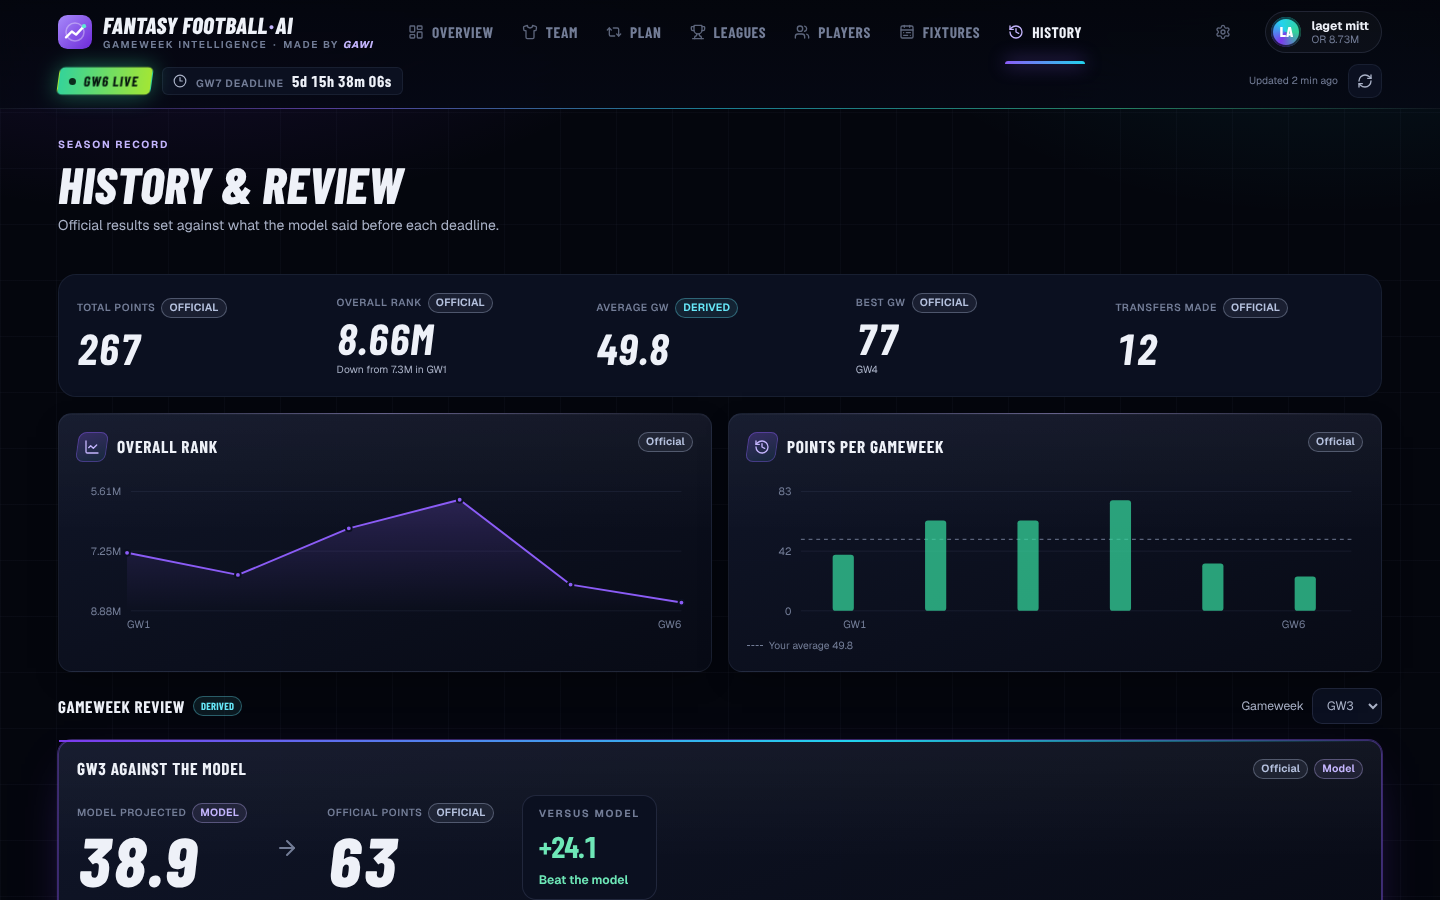
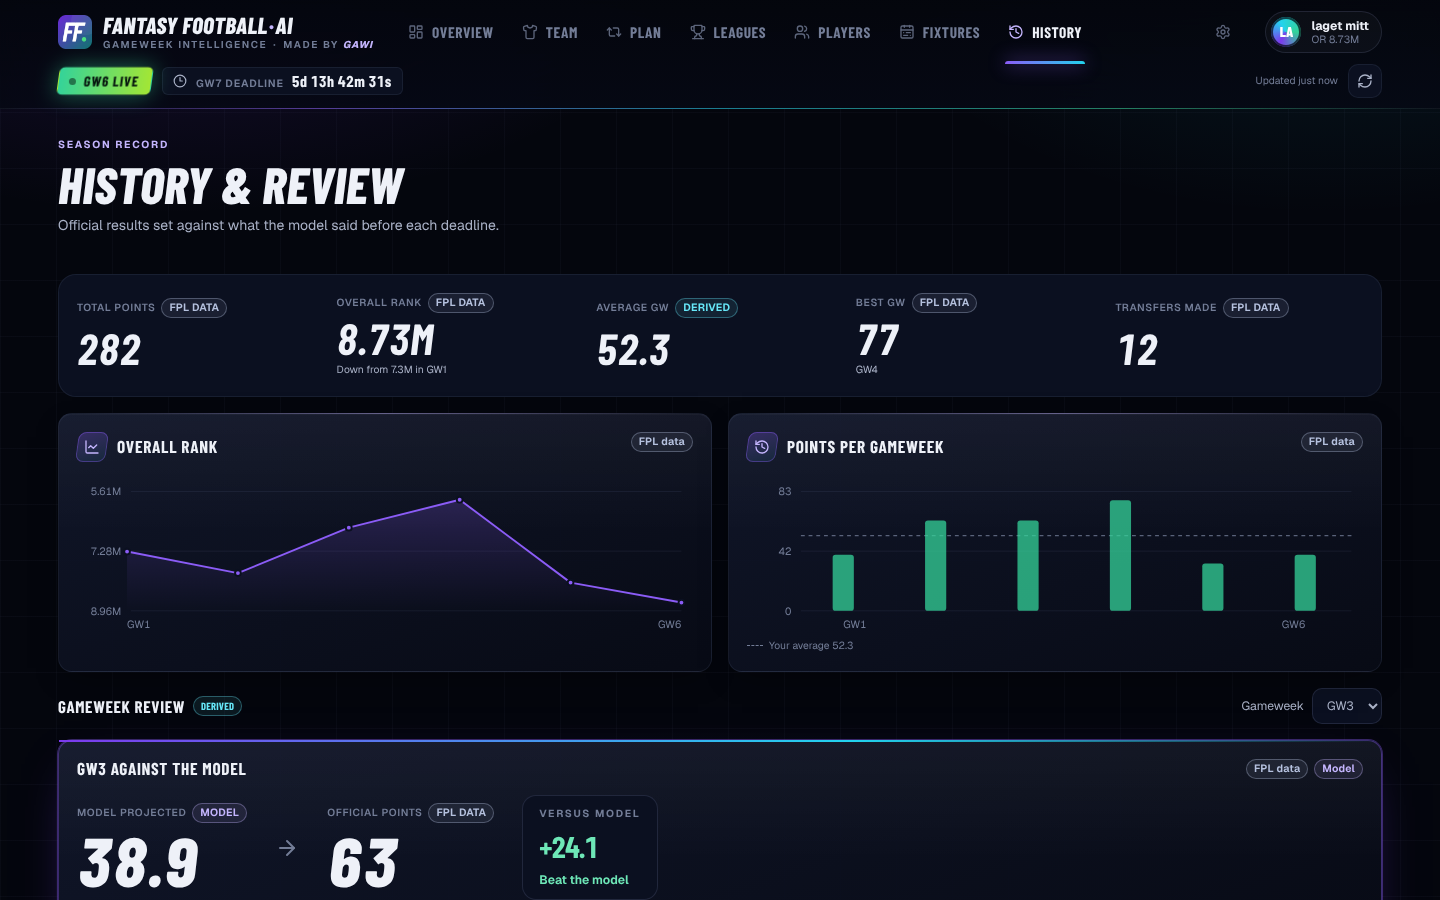
Tidy the last loose ends: one test folder, archived audits, new screenshots
- backend/tests/ moves into tests/ (one Python test folder; the
  colliding test_live_service.py becomes test_live_service_upstream.py).
- docs/audit/ and PRD_IMPLEMENTATION_STATUS.md move to docs/archive/.
- Screenshots retaken: the new FF.AI logo, 'FPL data' labels and no
  personal names (league team names still anonymised).
- Docs say 'FPL data' instead of 'Official', and the test command is
  plain 'python -m pytest'.

Claude-Session: https://claude.ai/code/session_01KPRo2SXwhTsH4ANoKE4Rcr

diff --git a/tests/test_deployment_artifacts.py b/tests/test_deployment_artifacts.py
@@ -106,7 +106,7 @@ def test_backend_allowlist_includes_only_the_serving_data_bundle():
 
 
 def test_staging_documentation_is_valid_utf8():
-    for name in ("docs/PROJECT_HANDOFF.md", "docs/PRD_IMPLEMENTATION_STATUS.md"):
+    for name in ("docs/PROJECT_HANDOFF.md", "docs/archive/PRD_IMPLEMENTATION_STATUS.md"):
         (ROOT / name).read_text(encoding="utf-8")
 
 

diff --git a/docs/PROJECT_HANDOFF.md b/docs/PROJECT_HANDOFF.md
@@ -3,8 +3,8 @@
 Updated: 2026-10-11
 Branch: `fix/decision-correctness-phase1`, based on `master` at `5306fdc`.
 Milestone: Phase 1 decision correctness after the 2026-10-11 practical audit
-(`docs/audit/PRACTICAL_PRODUCT_AUDIT_2026-10-11.md`). Full report, root causes
-and before/after benchmark: `docs/audit/PHASE1_DECISION_CORRECTNESS.md`.
+(`docs/archive/audit/PRACTICAL_PRODUCT_AUDIT_2026-10-11.md`). Full report, root causes
+and before/after benchmark: `docs/archive/audit/PHASE1_DECISION_CORRECTNESS.md`.
 
 ## Mini-leagues (2026-10-11)
 
@@ -21,7 +21,7 @@ real 7-manager private league (desktop and 390 px).
 ## Phase 2 status (2026-10-11)
 
 Branch `feature/decision-quality-phase2` (on top of Phase 1). See
-`docs/audit/PHASE2_DECISION_QUALITY.md`.
+`docs/archive/audit/PHASE2_DECISION_QUALITY.md`.
 
 DONE: derived selling prices; lineup, captain and bench from the squad after
 the recommended transfers (owned-squad lineup kept for My Team); captain by
@@ -149,7 +149,7 @@ this serving path. Legacy Streamlit/SQLite and offline ML remain separate.
   files, metadata mismatch, row count, target mismatch and stale/unknown upstream.
 - `.env.example`, `docs/DEPLOYMENT.md`: safe variables and exact hosting order,
   private access boundary, artifact publication and smoke-test instructions.
-- `docs/PRD_IMPLEMENTATION_STATUS.md`: dated staging evidence; original local
+- `docs/archive/PRD_IMPLEMENTATION_STATUS.md`: dated staging evidence; original local
   verification record retained.
 
 Frontend API/CORS behavior was already suitable and remains unchanged. No
@@ -223,7 +223,7 @@ exceptions and an exact serving-data file set. These are configuration/import
 checks, not an actual Docker image build.
 
 Converted the invalid Windows-encoded dash bytes in this file and
-docs/PRD_IMPLEMENTATION_STATUS.md to UTF-8 while preserving existing valid text.
+docs/archive/PRD_IMPLEMENTATION_STATUS.md to UTF-8 while preserving existing valid text.
 A documentation encoding regression now reads both files strictly as UTF-8.
 
 After the corrections, the targeted deployment/status/runtime-artifact suite

diff --git a/docs/ARCHITECTURE.md b/docs/ARCHITECTURE.md
@@ -67,7 +67,7 @@ less: the weights are 1, 0.85, 0.7, 0.55 and 0.4.
 A replay benchmark (`benchmark/`) runs the engine on recorded real teams and
 checks the plans for consistency. For example, no transfers of a bench
 goalkeeper, no captain the plan sells and no automatic wildcards. Root causes
-and results are in [audit/](audit/).
+and results are in [audit/](archive/audit/).
 
 ## The model
 
@@ -122,5 +122,5 @@ forecast each week separately. The method, limitations and commands are in
 | `backtesting/` | Historical backtests and production-parity checks for the model and decisions |
 | `scripts/` | Maintenance scripts, e.g. `generate_icons.py` |
 | `.github/` | CI, the forecast refresh, the uptime check, and issue / pull request templates |
-| `tests/`, `backend/tests/` | Python test suites |
+| `tests/` | Python test suite |
 | `docs/` | Model pipeline, deployment, data sources, audits and screenshots |

diff --git a/docs/FEATURES.md b/docs/FEATURES.md
@@ -137,7 +137,7 @@ FPL publishes squads only after a deadline, so mini-leagues use the latest
 squads whose deadline has passed and say so. In large leagues the top 30
 managers are analysed, plus you.
 
-*The manager and team names in this screenshot are anonymised.*
+*The team names in this screenshot are anonymised.*
 
 ## My Team
 
@@ -202,7 +202,7 @@ hover, and no sideways scrolling.
 
 Every number is labelled by where it comes from:
 
-- **Official:** straight from FPL.
+- **FPL data:** straight from the official game. The app itself is independent, not official.
 - **Model:** the forecast.
 - **Derived:** calculated from official data and the forecast.
 

diff --git a/README.md b/README.md
@@ -68,7 +68,7 @@ flowchart LR
 - **Decisions:** one optimiser picks the squad, XI and captain over five
   weighted Gameweeks. Holding, free transfers and hits are scored on one
   scale.
-- **Honest labels:** every number is marked Official, Model or Derived, and
+- **Honest labels:** every number is marked FPL data, Model or Derived, and
   uncertainty is shown, never hidden.
 
 More detail: [architecture](docs/ARCHITECTURE.md) ·
